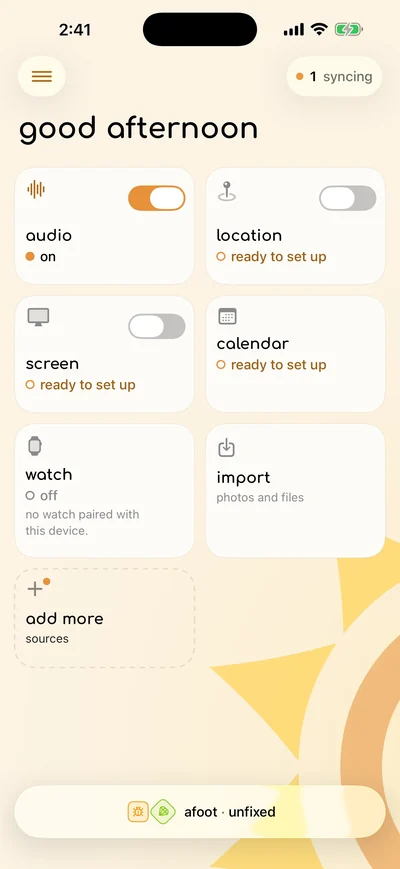
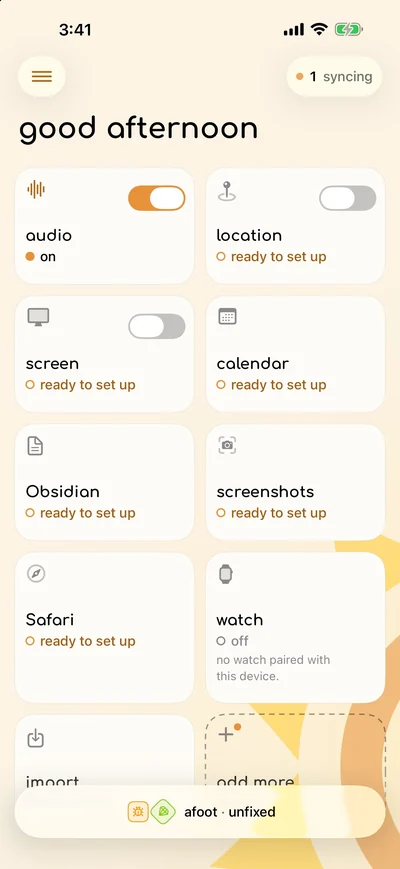
home: new screens in how your journal works (your days opens on a personal moment, a new Claude Code answer and its record, iphone and windows from their current releases); features uses the same device screens

diff --git a/public/index.html b/public/index.html
@@ -26,7 +26,7 @@
     <link rel="stylesheet" href="/static/tokens.css?v=79869fc8a6">
     <link rel="stylesheet" href="/static/tokens-dark.css?v=df4fd231fe">
     <link rel="stylesheet" href="/static/site.css?v=8e347260e1">
-    <link rel="stylesheet" href="/static/surfaces/surfaces.css?v=5493a42089">
+    <link rel="stylesheet" href="/static/surfaces/surfaces.css?v=069967f97a">
     <script type="application/ld+json">
     {
       "@context": "https://schema.org",
@@ -57,7 +57,7 @@
           "installUrl": "https://solstone.app/install",
           "downloadUrl": "https://solstone.app/download",
           "codeRepository": "https://github.com/solpbc/solstone-journal",
-          "screenshot": "https://solstone.app/static/surfaces/img/activities-1650.webp?v=bbfd962baf",
+          "screenshot": "https://solstone.app/static/surfaces/img/activities-1510.webp?v=a20d9b22fc",
           "isAccessibleForFree": true,
           "license": "https://www.gnu.org/licenses/agpl-3.0.html",
           "author": { "@id": "https://solpbc.org/#organization" },
@@ -201,15 +201,15 @@
 <button type="button" class="sf-arrow sf-next" data-sf-step="1" aria-label="next part"><svg viewBox="0 0 24 24" aria-hidden="true" focusable="false"><path d="M9 5l7 7-7 7"/></svg></button>
 <div class="sf-panel" role="tabpanel" id="sf-journal" aria-labelledby="sf-tab-journal">
 <h3>your days</h3><p class="sf-lead">read back any day: what you did, who you were with and what was talked about, all written and organized for you just from what you share.</p>
-<figure class="sf-shot" id="sf-shot-activities"><div class="sf-wide"><div class="sf-laptop-wrap"><div class="sf-dev sf-laptop"><picture><source media="(prefers-color-scheme: dark)" srcset="/static/surfaces/img/activities-dark-1000.webp?v=e6b53126ca 1000w, /static/surfaces/img/activities-dark-1650.webp?v=e74ffedb1f 1650w" sizes="(max-width: 1120px) 88vw, 960px"><img src="/static/surfaces/img/activities-1000.webp?v=145124515a" srcset="/static/surfaces/img/activities-1000.webp?v=145124515a 1000w, /static/surfaces/img/activities-1650.webp?v=bbfd962baf 1650w" sizes="(max-width: 1120px) 88vw, 960px" width="1000" height="733" loading="lazy" class="sf-fade-left" decoding="async" alt="a day&#x27;s activities in the journal, with the planning for the 3:00 PM sync with Romeo opened to its summary"></picture></div></div></div><div class="sf-narrow"><div class="sf-dev sf-phone"><picture><source media="(prefers-color-scheme: dark)" srcset="/static/surfaces/img/activities-narrow-dark-560.webp?v=e5bd5aa293 560w, /static/surfaces/img/activities-narrow-dark-840.webp?v=92b977c243 840w" sizes="280px"><img src="/static/surfaces/img/activities-narrow-560.webp?v=f904bb8302" srcset="/static/surfaces/img/activities-narrow-560.webp?v=f904bb8302 560w, /static/surfaces/img/activities-narrow-840.webp?v=4ce8a06152 840w" sizes="280px" width="560" height="1212" loading="lazy" decoding="async" alt="a day&#x27;s activities in the journal, with the planning for the 3:00 PM sync with Romeo opened to its summary"></picture></div></div></figure>
+<figure class="sf-shot" id="sf-shot-activities"><div class="sf-wide"><div class="sf-laptop-wrap"><div class="sf-dev sf-laptop"><picture><source media="(prefers-color-scheme: dark)" srcset="/static/surfaces/img/activities-dark-1000.webp?v=861578d8be 1000w, /static/surfaces/img/activities-dark-1510.webp?v=3a09490861 1510w" sizes="(max-width: 1120px) 88vw, 960px"><img src="/static/surfaces/img/activities-1000.webp?v=a3d4d85d75" srcset="/static/surfaces/img/activities-1000.webp?v=a3d4d85d75 1000w, /static/surfaces/img/activities-1510.webp?v=a20d9b22fc 1510w" sizes="(max-width: 1120px) 88vw, 960px" width="1000" height="619" loading="lazy" class="sf-fade-left" decoding="async" alt="a day&#x27;s activities in the journal, with drafting the notes for dad&#x27;s 60th birthday opened to its summary"></picture></div></div></div><div class="sf-narrow"><div class="sf-dev sf-phone"><picture><source media="(prefers-color-scheme: dark)" srcset="/static/surfaces/img/activities-narrow-dark-560.webp?v=aaf43d9e83 560w, /static/surfaces/img/activities-narrow-dark-840.webp?v=b19346e14f 840w" sizes="280px"><img src="/static/surfaces/img/activities-narrow-560.webp?v=8df3250619" srcset="/static/surfaces/img/activities-narrow-560.webp?v=8df3250619 560w, /static/surfaces/img/activities-narrow-840.webp?v=6077384f16 840w" sizes="280px" width="560" height="1212" loading="lazy" decoding="async" alt="a day&#x27;s activities in the journal, with drafting the notes for dad&#x27;s 60th birthday opened to its summary"></picture></div></div></figure>
 <p class="sf-source">a demo journal set in a modern shakespearian world.</p></div>
 <div class="sf-panel" role="tabpanel" id="sf-share" aria-labelledby="sf-tab-share" hidden>
 <h3>what goes in</h3><p class="sf-lead">on each of your own devices, you choose what the solstone app takes in for your journal, and you can pause it whenever you like.</p><div class="sf-row">
-<figure class="sf-item" data-w="watch"><div class="sf-dev sf-watch"><picture><img src="/static/surfaces/img/watch-240.webp?v=2ede66cce2" srcset="/static/surfaces/img/watch-240.webp?v=2ede66cce2 240w, /static/surfaces/img/watch-422.webp?v=d973c4bee7 422w" sizes="112px" width="240" height="292" loading="lazy" decoding="async" alt="solstone on an apple watch: 2m, running, and a stop button"></picture><span class="sf-crown" aria-hidden="true"></span></div><figcaption><a class="sf-go" href="/mobile">apple watch</a></figcaption></figure>
-<figure class="sf-item" data-w="phone"><div class="sf-dev sf-phone"><picture><img src="/static/surfaces/img/iphone-400.webp?v=fc9827f150" srcset="/static/surfaces/img/iphone-400.webp?v=fc9827f150 400w, /static/surfaces/img/iphone-800.webp?v=6e5543dda5 800w" sizes="190px" width="400" height="869" loading="lazy" decoding="async" alt="solstone on an iphone: good afternoon, audio on, location, screen and calendar ready to set up, and the journal&#x27;s mark at the bottom"></picture></div><figcaption><a class="sf-go" href="/mobile">iphone</a></figcaption></figure>
+<figure class="sf-item" data-w="watch"><div class="sf-dev sf-watch"><picture><img src="/static/surfaces/img/watch-240.webp?v=7569e9f412" srcset="/static/surfaces/img/watch-240.webp?v=7569e9f412 240w, /static/surfaces/img/watch-422.webp?v=98579fd329 422w" sizes="112px" width="240" height="292" loading="lazy" decoding="async" alt="solstone on an apple watch: 2m, running, and a stop button"></picture><span class="sf-crown" aria-hidden="true"></span></div><figcaption><a class="sf-go" href="/mobile">apple watch</a></figcaption></figure>
+<figure class="sf-item" data-w="phone"><div class="sf-dev sf-phone"><picture><img src="/static/surfaces/img/iphone-400.webp?v=459e7179d8" srcset="/static/surfaces/img/iphone-400.webp?v=459e7179d8 400w, /static/surfaces/img/iphone-800.webp?v=1aa9677d44 800w" sizes="190px" width="400" height="869" loading="lazy" decoding="async" alt="solstone on an iphone: good afternoon, audio on, location, screen, calendar, Obsidian, screenshots and Safari ready to set up, and the journal&#x27;s mark at the bottom"></picture></div><figcaption><a class="sf-go" href="/mobile">iphone</a></figcaption></figure>
 <figure class="sf-item" data-w="phone"><div class="sf-dev sf-phone"><picture><img src="/static/surfaces/img/android-400.webp?v=625ac1840d" srcset="/static/surfaces/img/android-400.webp?v=625ac1840d 400w, /static/surfaces/img/android-800.webp?v=3b8100649c 800w" sizes="190px" width="400" height="867" loading="lazy" decoding="async" alt="solstone on an android phone: audio, on, taking it in, connected"></picture></div><figcaption><a class="sf-go" href="/mobile">android</a></figcaption></figure>
 <figure class="sf-item" data-w="menu"><div class="sf-dev sf-menu"><picture><img src="/static/surfaces/img/mac-230.webp?v=51dbe17603" srcset="/static/surfaces/img/mac-230.webp?v=51dbe17603 230w, /static/surfaces/img/mac-230.webp?v=51dbe17603 230w" sizes="230px" width="230" height="274" loading="lazy" decoding="async" alt="the solstone menu on a mac: on, connected, pause, screen and system audio, browsers off, open journal, settings, about solstone, quit solstone"></picture></div><figcaption><a class="sf-go" href="/download/mac">mac</a></figcaption></figure>
-<figure class="sf-item" data-w="window"><div class="sf-dev sf-window"><picture><img src="/static/surfaces/img/windows-760.webp?v=b3a37323e9" srcset="/static/surfaces/img/windows-760.webp?v=b3a37323e9 760w, /static/surfaces/img/windows-822.webp?v=62db06f843 822w" sizes="380px" width="760" height="294" loading="lazy" decoding="async" alt="solstone on windows, settings, home: state on, next save in 1:57, journal 1 delivered, 0 pending, last reached just now, sources: screen and desktop activity on"></picture></div><figcaption><a class="sf-go" href="/download/windows">windows</a></figcaption></figure>
+<figure class="sf-item" data-w="window"><div class="sf-dev sf-window"><picture><img src="/static/surfaces/img/windows-760.webp?v=633d17306a" srcset="/static/surfaces/img/windows-760.webp?v=633d17306a 760w, /static/surfaces/img/windows-1024.webp?v=76f779d4ca 1024w" sizes="380px" width="760" height="422" loading="lazy" decoding="async" alt="solstone on windows: good evening, screen on with activity, browsers on, audio and Obsidian off, screenshots ready to set up, connected, and status: all caught up, screen 2 minutes so far, last taken in just now"></picture></div><figcaption><a class="sf-go" href="/download/windows">windows</a></figcaption></figure>
 </div>
 <p class="sf-source">the solstone app on each device, from released versions. the iphone and apple watch are shown with test data.</p></div>
 <div class="sf-panel" role="tabpanel" id="sf-agents" aria-labelledby="sf-tab-agents" hidden>
@@ -217,10 +217,10 @@
 <div class="sf-agent">
 <figure class="sf-qa"><figcaption class="sf-who">Claude Code</figcaption><dl>
 <dt>asked</dt><dd>Is Tybalt still against working with the Montagues?</dd>
-<dt>answered</dt><dd><p>I wouldn&#x27;t say he&#x27;s against it. The journal never shows Tybalt opposing the partnership itself. He&#x27;s raised specific worries about depending on Montague, and he raised a new one today.</p><p><strong>His first worry was uptime, and it&#x27;s mostly answered.</strong> You passed his question along at the Nov 9 kickoff: &quot;if Balcony depends on mesh routing and mesh routing goes down, do our inspectors stop working?&quot; Romeo suggested a queue on the device, so a Montague outage would only delay inspections, not stop them. You said Tybalt &quot;can live with that. He&#x27;ll want to see it though.&quot; In today&#x27;s 3 PM sync, Romeo showed the prototype: 12 inspections queued during an hour offline, then all sent in order with their original signing times. You told Romeo that Tybalt said this morning he&#x27;s &quot;satisfied if it survives a week of airplane mode.&quot; Romeo answered, &quot;One hour down, 167 to go.&quot; So Tybalt&#x27;s approval depends on that test.</p><p><strong>His new worry is speed, about the versioning agreement.</strong> In that same sync, you and Romeo agreed that Capulet owns the inspection record, Montague owns the routing envelope, and any change to either one needs both sides to approve. Tybalt then replied by email (&quot;Re: Versioning with Montague&quot;): <em>&quot;thanks for writing it down. my worry is they slow us down. can we talk tomorrow at 10?&quot;</em> He seems fine with the setup in principle. His concern is that needing both sides to sign off could slow Capulet down.</p><p><strong>What&#x27;s next:</strong> he asked to talk tomorrow (Nov 12) at 10. I only found that request in his email, not on a calendar.</p><p>The email is the only place I have Tybalt&#x27;s own words. The rest comes from you passing his views along in meetings. The journal entry on him calls him &quot;sceptical of depending on Montague&#x27;s Mesh Routing,&quot; which fits caution more than opposition.</p></dd></dl>
+<dt>answered</dt><dd><p>Tybalt isn&#x27;t against working with Montague. He&#x27;s still cautious about it, and now his caution is about field versioning rather than uptime.</p><p><strong>How his stance changed:</strong></p><ul><li><strong>Monday morning (Nov 16):</strong> In your planning note, you said Tybalt &quot;was grumbling on Friday about depending on Montague for anything&quot; (recording).</li><li><strong>Monday kickoff:</strong> You raised his question for him: if Mesh Routing goes down, do inspectors stop working? Romeo said the question was fair and proposed a queue on the device. You said &quot;I think Tybalt can live with that. He&#x27;ll want to see it though&quot; (recording).</li><li><strong>Today&#x27;s standup (9:30):</strong> When you asked about his Mesh Routing worry, he said &quot;Still worried, yeah.&quot; After you explained the queue, he said &quot;that&#x27;s actually the right answer&quot; and &quot;if it survives a week of airplane mode, I&#x27;m satisfied.&quot; He then corrected you to &quot;conditionally satisfied. Write the condition down too&quot; (recording). The transcript numbers the speakers instead of naming them. I&#x27;m treating the voice that answers when you say &quot;Tybalt&quot; as his.</li><li><strong>This afternoon:</strong> Romeo showed the queue surviving one hour offline. In Romeo&#x27;s words, that&#x27;s &quot;One hour down, 167 to go&quot; toward the week Tybalt asked for (recording).</li></ul><p><strong>What&#x27;s still open:</strong> You emailed Tybalt the versioning agreement: Capulet owns the inspection record, Montague owns the routing envelope, and both sides must approve any change. He wrote back: &quot;my worry is they slow us down. can we talk tomorrow at 10?&quot; (email). So the uptime concern is mostly settled, pending the week-long airplane-mode test. His new concern is that needing Montague&#x27;s approval for schema changes will slow Capulet down.</p><p>Two things to have ready for tomorrow at 10:</p><ul><li>Your sync notes say to tell him the agreement covers only inspection records.</li><li>No one owns the airplane-mode test yet. Your spec still says &quot;Owner TBD.&quot;</li></ul></dd></dl>
 </figure>
 <figure class="sf-record" style="margin:0"><h4>what your journal recorded</h4>
-<div class="sf-dev sf-window"><picture><source media="(prefers-color-scheme: dark)" srcset="/static/surfaces/img/record-dark-900.webp?v=15f277746f 900w, /static/surfaces/img/record-dark-1600.webp?v=1c7c7d9e80 1600w" sizes="(max-width: 900px) 88vw, 600px"><img src="/static/surfaces/img/record-900.webp?v=e74f6e10ef" srcset="/static/surfaces/img/record-900.webp?v=e74f6e10ef 900w, /static/surfaces/img/record-1600.webp?v=7ba8396f6f 1600w" sizes="(max-width: 900px) 88vw, 600px" width="900" height="1239" loading="lazy" decoding="async" alt="the activity page in the journal&#x27;s agents app, with nine requests from Claude Code, all served, using search, list_entities, get_entity, fetch and get_transcript"></picture></div></figure>
+<div class="sf-dev sf-window"><picture><source media="(prefers-color-scheme: dark)" srcset="/static/surfaces/img/record-dark-900.webp?v=3e43cf25c8 900w, /static/surfaces/img/record-dark-1600.webp?v=9db455be51 1600w" sizes="(max-width: 900px) 88vw, 600px"><img src="/static/surfaces/img/record-900.webp?v=9b7084cb30" srcset="/static/surfaces/img/record-900.webp?v=9b7084cb30 900w, /static/surfaces/img/record-1600.webp?v=5438c4d901 1600w" sizes="(max-width: 900px) 88vw, 600px" width="900" height="1408" loading="lazy" decoding="async" alt="the activity page in the journal&#x27;s agents app, with eleven requests from Claude Code, all served, using search, list_entities, get_entity, fetch and get_transcript"></picture></div></figure>
 </div>
 <p class="sf-source">we asked Claude Code this once, and it worked from the demo journal. the answer is shown as it came back, and the journal&#x27;s own record of what it asked is recorded.</p>
 </div>

diff --git a/public/features/devices.html b/public/features/devices.html
@@ -68,10 +68,10 @@
                     <p class="lede">how each solstone app does each thing, with the tools its own system gives it. pick a topic to see them side by side.</p>
                     <div class="devices">
                         <figure class="dv" data-w="menu"><div class="dv-dev dv-menu"><img src="/static/surfaces/img/mac-230.webp?v=51dbe17603" width="230" height="274" loading="lazy" decoding="async" alt="the solstone menu on a mac: on, connected, pause, screen and system audio, browsers off, open journal, settings, about solstone, quit solstone"></div><figcaption>mac</figcaption></figure>
-                        <figure class="dv" data-w="phone"><div class="dv-dev dv-phone"><img src="/static/surfaces/img/iphone-400.webp?v=fc9827f150" srcset="/static/surfaces/img/iphone-400.webp?v=fc9827f150 400w, /static/surfaces/img/iphone-800.webp?v=6e5543dda5 800w" sizes="170px" width="400" height="869" loading="lazy" decoding="async" alt="solstone on an iphone: good afternoon, audio on, location, screen and calendar ready to set up, and the journal's mark at the bottom"></div><figcaption>iphone</figcaption></figure>
+                        <figure class="dv" data-w="phone"><div class="dv-dev dv-phone"><img src="/static/surfaces/img/iphone-400.webp?v=459e7179d8" srcset="/static/surfaces/img/iphone-400.webp?v=459e7179d8 400w, /static/surfaces/img/iphone-800.webp?v=1aa9677d44 800w" sizes="170px" width="400" height="869" loading="lazy" decoding="async" alt="solstone on an iphone: good afternoon, audio on, location, screen, calendar, Obsidian, screenshots and Safari ready to set up, and the journal's mark at the bottom"></div><figcaption>iphone</figcaption></figure>
                         <figure class="dv" data-w="phone"><div class="dv-dev dv-phone"><img src="/static/surfaces/img/android-400.webp?v=625ac1840d" srcset="/static/surfaces/img/android-400.webp?v=625ac1840d 400w, /static/surfaces/img/android-800.webp?v=3b8100649c 800w" sizes="170px" width="400" height="867" loading="lazy" decoding="async" alt="solstone on an android phone: audio, on, taking it in, connected"></div><figcaption>android</figcaption></figure>
-                        <figure class="dv" data-w="watch"><div class="dv-dev dv-watch"><img src="/static/surfaces/img/watch-240.webp?v=2ede66cce2" srcset="/static/surfaces/img/watch-240.webp?v=2ede66cce2 240w, /static/surfaces/img/watch-422.webp?v=d973c4bee7 422w" sizes="104px" width="240" height="292" loading="lazy" decoding="async" alt="solstone on an apple watch: 2 minutes, running, and a stop button"><span class="dv-crown" aria-hidden="true"></span></div><figcaption>apple watch</figcaption></figure>
-                        <figure class="dv" data-w="window"><div class="dv-dev dv-window"><img src="/static/surfaces/img/windows-760.webp?v=b3a37323e9" srcset="/static/surfaces/img/windows-760.webp?v=b3a37323e9 760w, /static/surfaces/img/windows-822.webp?v=62db06f843 822w" sizes="340px" width="760" height="294" loading="lazy" decoding="async" alt="solstone on windows, settings, home: state on, next save in 1:57, journal 1 delivered, 0 pending, last reached just now, sources: screen and desktop activity on"></div><figcaption>windows</figcaption></figure>
+                        <figure class="dv" data-w="watch"><div class="dv-dev dv-watch"><img src="/static/surfaces/img/watch-240.webp?v=7569e9f412" srcset="/static/surfaces/img/watch-240.webp?v=7569e9f412 240w, /static/surfaces/img/watch-422.webp?v=98579fd329 422w" sizes="104px" width="240" height="292" loading="lazy" decoding="async" alt="solstone on an apple watch: 2 minutes, running, and a stop button"><span class="dv-crown" aria-hidden="true"></span></div><figcaption>apple watch</figcaption></figure>
+                        <figure class="dv" data-w="window"><div class="dv-dev dv-window"><img src="/static/surfaces/img/windows-760.webp?v=633d17306a" srcset="/static/surfaces/img/windows-760.webp?v=633d17306a 760w, /static/surfaces/img/windows-1024.webp?v=76f779d4ca 1024w" sizes="340px" width="760" height="422" loading="lazy" decoding="async" alt="solstone on windows: good evening, screen on with activity, browsers on, audio and Obsidian off, screenshots ready to set up, connected, and status: all caught up, screen 2 minutes so far, last taken in just now"></div><figcaption>windows</figcaption></figure>
                     </div>
                     <div class="promises" role="group" aria-label="choose a topic">
                         <button class="chip" type="button" data-row="screen" aria-pressed="true">your screen</button>

diff --git a/public/features.html b/public/features.html
@@ -144,10 +144,10 @@
                     <p class="devices-lede">native apps on every platform, browser extensions, and your watch.</p>
                     <div class="devices">
                         <figure class="dv" data-w="menu"><div class="dv-dev dv-menu"><img src="/static/surfaces/img/mac-230.webp?v=51dbe17603" width="230" height="274" loading="lazy" decoding="async" alt="the solstone menu on a mac: on, connected, pause, screen and system audio, browsers off, open journal, settings, about solstone, quit solstone"></div><figcaption>mac</figcaption></figure>
-                        <figure class="dv" data-w="phone"><div class="dv-dev dv-phone"><img src="/static/surfaces/img/iphone-400.webp?v=fc9827f150" srcset="/static/surfaces/img/iphone-400.webp?v=fc9827f150 400w, /static/surfaces/img/iphone-800.webp?v=6e5543dda5 800w" sizes="170px" width="400" height="869" loading="lazy" decoding="async" alt="solstone on an iphone: good afternoon, audio on, location, screen and calendar ready to set up, and the journal's mark at the bottom"></div><figcaption>iphone</figcaption></figure>
+                        <figure class="dv" data-w="phone"><div class="dv-dev dv-phone"><img src="/static/surfaces/img/iphone-400.webp?v=459e7179d8" srcset="/static/surfaces/img/iphone-400.webp?v=459e7179d8 400w, /static/surfaces/img/iphone-800.webp?v=1aa9677d44 800w" sizes="170px" width="400" height="869" loading="lazy" decoding="async" alt="solstone on an iphone: good afternoon, audio on, location, screen, calendar, Obsidian, screenshots and Safari ready to set up, and the journal's mark at the bottom"></div><figcaption>iphone</figcaption></figure>
                         <figure class="dv" data-w="phone"><div class="dv-dev dv-phone"><img src="/static/surfaces/img/android-400.webp?v=625ac1840d" srcset="/static/surfaces/img/android-400.webp?v=625ac1840d 400w, /static/surfaces/img/android-800.webp?v=3b8100649c 800w" sizes="170px" width="400" height="867" loading="lazy" decoding="async" alt="solstone on an android phone: audio, on, taking it in, connected"></div><figcaption>android</figcaption></figure>
-                        <figure class="dv" data-w="watch"><div class="dv-dev dv-watch"><img src="/static/surfaces/img/watch-240.webp?v=2ede66cce2" srcset="/static/surfaces/img/watch-240.webp?v=2ede66cce2 240w, /static/surfaces/img/watch-422.webp?v=d973c4bee7 422w" sizes="104px" width="240" height="292" loading="lazy" decoding="async" alt="solstone on an apple watch: 2 minutes, running, and a stop button"><span class="dv-crown" aria-hidden="true"></span></div><figcaption>apple watch</figcaption></figure>
-                        <figure class="dv" data-w="window"><div class="dv-dev dv-window"><img src="/static/surfaces/img/windows-760.webp?v=b3a37323e9" srcset="/static/surfaces/img/windows-760.webp?v=b3a37323e9 760w, /static/surfaces/img/windows-822.webp?v=62db06f843 822w" sizes="340px" width="760" height="294" loading="lazy" decoding="async" alt="solstone on windows, settings, home: state on, next save in 1:57, journal 1 delivered, 0 pending, last reached just now, sources: screen and desktop activity on"></div><figcaption>windows</figcaption></figure>
+                        <figure class="dv" data-w="watch"><div class="dv-dev dv-watch"><img src="/static/surfaces/img/watch-240.webp?v=7569e9f412" srcset="/static/surfaces/img/watch-240.webp?v=7569e9f412 240w, /static/surfaces/img/watch-422.webp?v=98579fd329 422w" sizes="104px" width="240" height="292" loading="lazy" decoding="async" alt="solstone on an apple watch: 2 minutes, running, and a stop button"><span class="dv-crown" aria-hidden="true"></span></div><figcaption>apple watch</figcaption></figure>
+                        <figure class="dv" data-w="window"><div class="dv-dev dv-window"><img src="/static/surfaces/img/windows-760.webp?v=633d17306a" srcset="/static/surfaces/img/windows-760.webp?v=633d17306a 760w, /static/surfaces/img/windows-1024.webp?v=76f779d4ca 1024w" sizes="340px" width="760" height="422" loading="lazy" decoding="async" alt="solstone on windows: good evening, screen on with activity, browsers on, audio and Obsidian off, screenshots ready to set up, connected, and status: all caught up, screen 2 minutes so far, last taken in just now"></div><figcaption>windows</figcaption></figure>
                     </div>
                     <p class="actions"><a class="btn-text" href="/features/devices">see how each solstone app does these, device by device →</a></p>
                 </div>

diff --git a/public/static/surfaces/surfaces.css b/public/static/surfaces/surfaces.css
@@ -137,7 +137,7 @@
 .sf-qa details { margin-top: 12px; font-size: 15px; }
 .sf-qa summary { cursor: pointer; font-weight: 600; min-height: 44px; display: flex; align-items: center; }
 .sf-qa .sf-full { font-size: 15px; line-height: 1.55; color: var(--ink); max-height: 28em; overflow: auto; padding-right: 6px; }
-.sf-qa dd p + p, .sf-qa dd p + ul, .sf-qa .sf-full p + p, .sf-qa .sf-full ul + p, .sf-qa .sf-full p + ul { margin-top: 8px; }
+.sf-qa dd p + p, .sf-qa dd p + ul, .sf-qa dd ul + p, .sf-qa .sf-full p + p, .sf-qa .sf-full ul + p, .sf-qa .sf-full p + ul { margin-top: 8px; }
 .sf-qa ul { margin: 6px 0 0; padding-left: 1.2em; }
 .sf-qa li + li { margin-top: 4px; }
 .sf-qa .sf-h { font-weight: 600; margin-top: 14px; }
